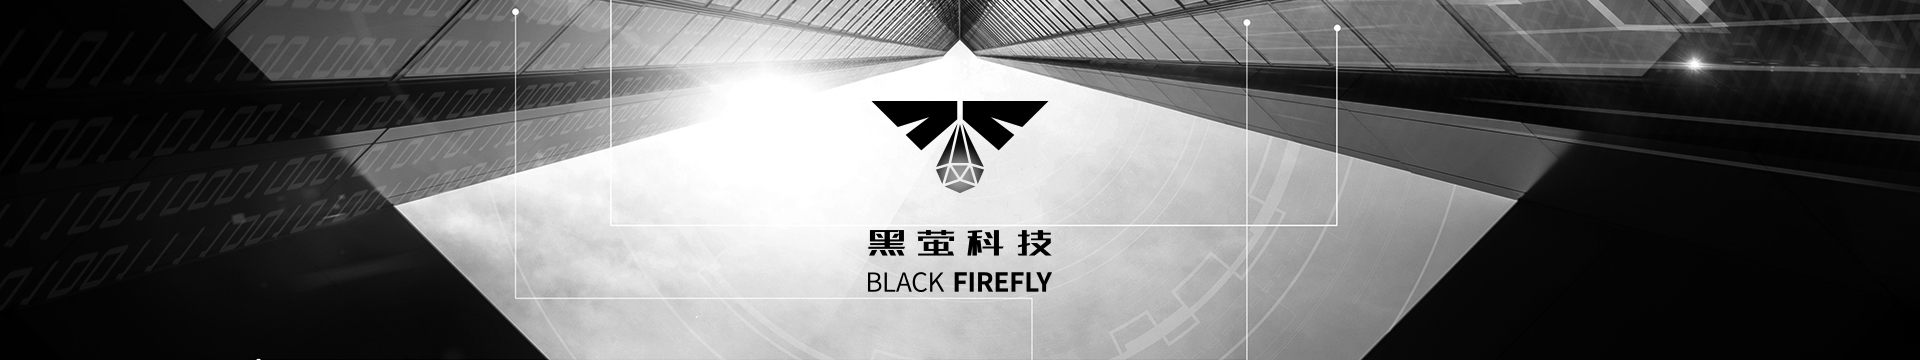
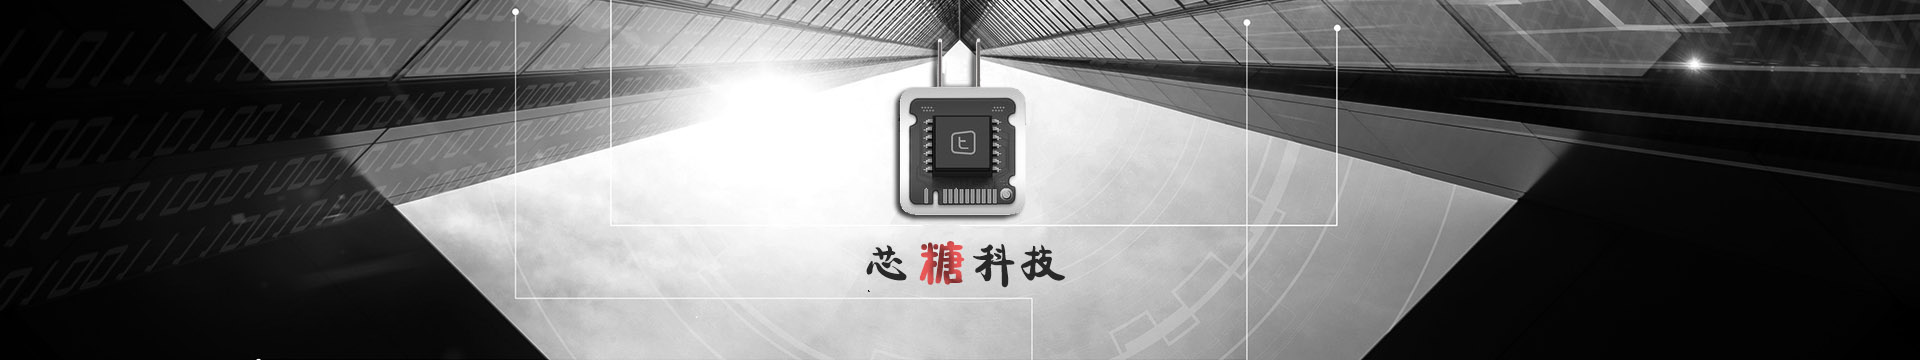
除了图片部分都改掉了

Changed region(s): [[0.4375, 0.1222, 0.5625, 0.6111], [0.4375, 0.6417, 0.5625, 0.825]]

diff --git a/aboutus.html b/aboutus.html
@@ -27,13 +27,13 @@
     <img src="Content/img/about_new.jpg" width="100%" />
 </div>
 <div class="about">  
-    <div class="title">深圳黑萤科技有限公司</div>
+    <div class="title">上海芯糖科技有限公司</div>
     <div class="text">
-        <p>深圳黑萤科技（Black Firefly）是一家专注于区块链设备设计与研发的科技公司，其核心团队成员有来自于腾讯、OPPO、华为、航天华拓等国内科技独角兽公司，在智能硬件、软件、Linux系统、服务器开发等方面有着深厚的软硬件技术研发和产品设计经验。</p>
+        <p>上海芯糖科技（Btcat）是一家专注于区块链设备设计与研发的科技公司，其核心团队成员有来自于腾讯、OPPO、华为、航天华拓等国内科技独角兽公司，在智能硬件、软件、Linux系统、服务器开发等方面有着深厚的软硬件技术研发和产品设计经验。</p>
         <p style="margin-top:10px;">
-            &nbsp;&nbsp;&nbsp;&nbsp; 2018年，黑萤科技获得了IPFS.Fund的战略投资。当前，黑萤科技重点面向IPFS生态，结合自身的技术沉淀与IPFS.Fund长期以来对IPFS的专注研究和深刻理解，通过矿机、节点、矿场的研发设计，为整个IPFS网络提供基础层的支持与保障。
+            &nbsp;&nbsp;&nbsp;&nbsp; 2018年，芯糖科技获得了布洛克资本的战略投资。当前，芯糖科技重点面向Ulord生态，结合自身的技术沉淀与布洛克资本长期以来对公链的专注研究和深刻理解，通过矿机、节点、矿场的研发设计，为上千个公链网络提供基础层的支持与保障。
             我们的目标是建设更丰富、更有趣、更靠谱的区块链生态。
-            公司大本营位于深圳，并在北京、厦门等设有分支机构。
+            公司大本营位于上海，并在北京、厦门等设有分支机构。
         </p>
     </div>
 </div>

diff --git a/kuangji.html b/kuangji.html
@@ -78,7 +78,7 @@
 
 
 <div class="introduce">
-    <div class="info_put"><span class="title">黑萤Ms.家用矿机</span><span class="a-li"><a href="#href1">产品描述</a><a href="#href2">活动规则</a><a href="#href3">常见疑问</a></span></div>
+    <div class="info_put"><span class="title">芯tech.家用矿机</span><span class="a-li"><a href="#href1">产品描述</a><a href="#href2">活动规则</a><a href="#href3">常见疑问</a></span></div>
 </div>
 <div class="calculation">
     <div class="describe">
@@ -90,8 +90,8 @@
             </ul>           
         </div>
         <div class="describe_info">
-            <h1 class="txt_title">黑萤Ms.家用矿机</h1>
-            <div class="txt_describe txt_describe1">IPFS生态矿机</div>
+            <h1 class="txt_title">家用硬件节点</h1>
+            <div class="txt_describe txt_describe1">POS生态节点矿机</div>
             <div class="txt_describe txt_describe2">不包邮，官网购买邮资到付。</div>
             <div class="time_l"><span class="r_t" style="margin-left:15px;">秒杀活动</span><span class="r_li"><span class="r_t1" style="background-color:transparent;margin-right:0px;"><img style="margin-top:-1px;" src="Content/img/time.png" width="16" height="16" /></span><span class="r_type" style="background-color:transparent;">距离开始</span>：<span class="day">00</span>天<span class="hour">00</span>时<span class="minute">00</span>分<span class="second">00</span>秒</span></div>
             <div class="t_price">
@@ -100,7 +100,7 @@
             </div>
             <div class="t_type">
                 <span class="t_lt">型号</span>
-                <span class="t_select">黑萤Ms.</span>
+                <span class="t_select">4C16G带一个公网IP</span>
             </div>
             <div class="t_number">
                 <span class="t_lt">数量</span>

diff --git a/kuangchi.html b/kuangchi.html
@@ -91,7 +91,7 @@
             </ul>           
         </div>
         <div class="describe_info">
-            <h1 class="txt_title">黑萤矿池云节点</h1>
+            <h1 class="txt_title">芯云节点服务器</h1>
             <div class="txt_describe txt_describe1">一键挖矿，更聪明地赚钱</div>
             <div class="txt_describe txt_describe2">人人都能参与的IPFS一键挖矿</div>
             <div class="time_l"><span class="r_t">当前活动</span><span class="r_li"><span class="r_t1" style="background-color:transparent;margin-right:0px;"><img style="margin-top:-1px;" src="Content/img/time.png" width="16" height="16" /></span><span class="r_type" style="background-color:transparent;">距离开始</span>：<span class="day">00</span>天<span class="hour">00</span>时<span class="minute">00</span>分<span class="second">00</span>秒</span></div>
@@ -101,7 +101,7 @@
             </div>
             <div class="t_type">
                 <span class="t_lt">型号</span>
-                <span class="t_select">黑萤矿池云节点</span>
+                <span class="t_select">芯云节点UT版</span>
             </div>
             <div class="t_number">
                 <span class="t_lt">数量</span>
